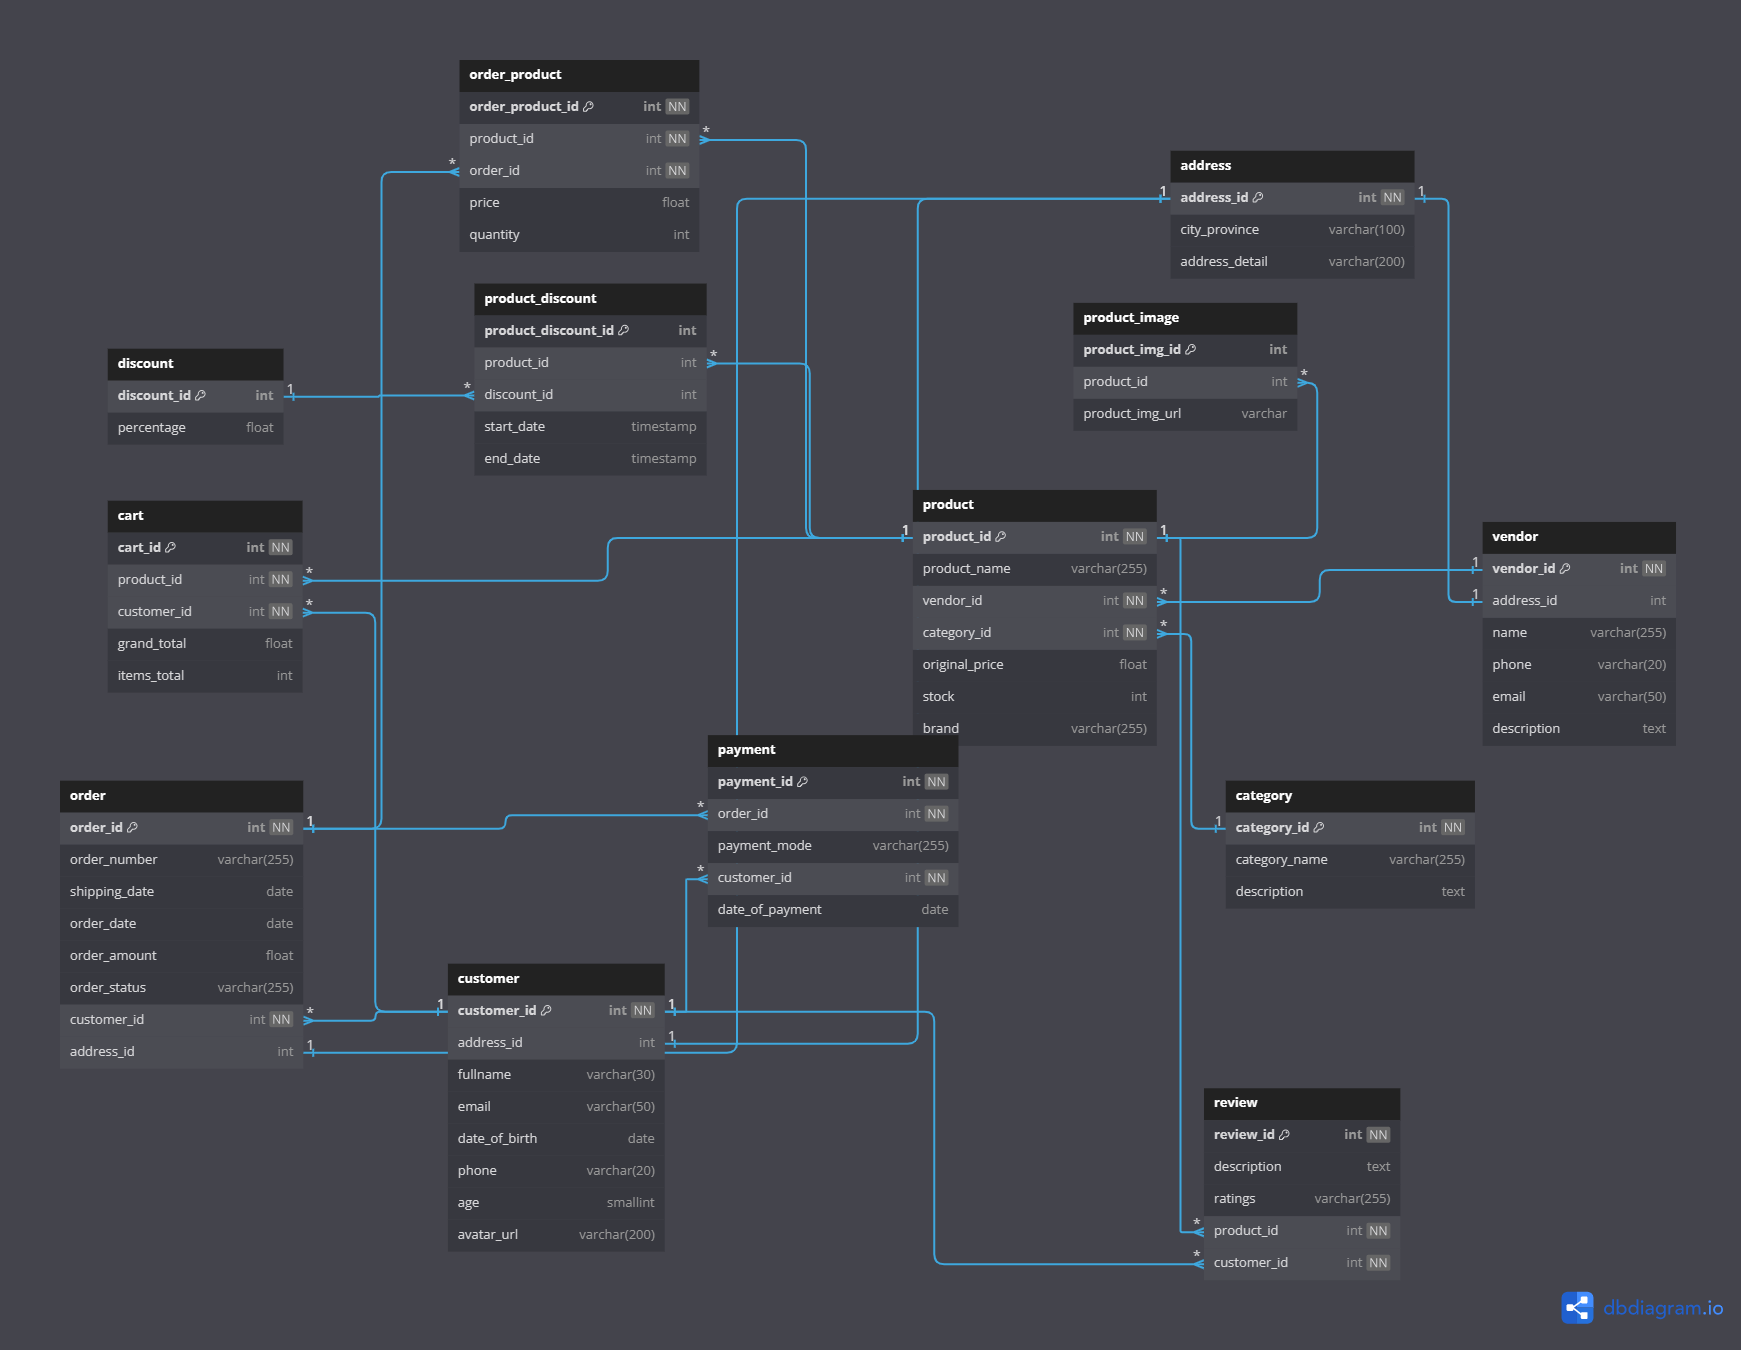
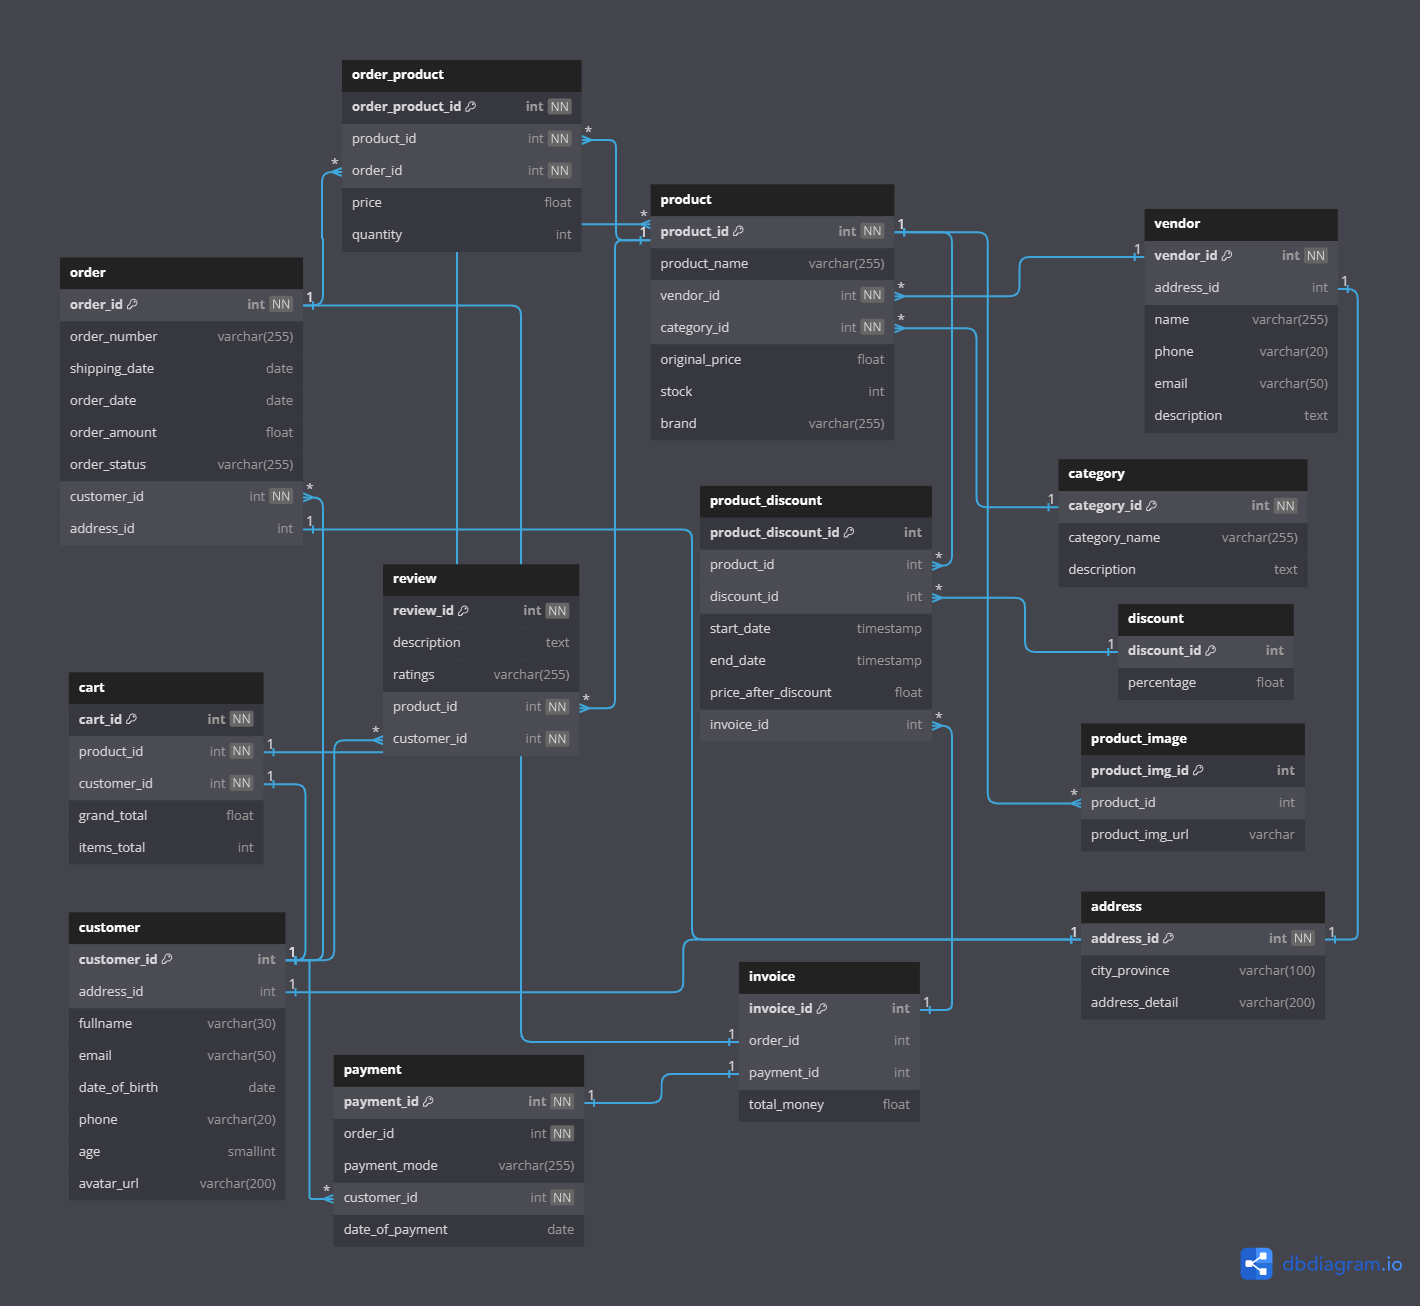
add invoice table

diff --git a/README.md b/README.md
@@ -5,5 +5,6 @@ Final Project for K16DS's Data Platform subject
 - Quách Xuân Nam: 20020541
 - Nguyễn Văn Hậu: 20001665
 - Lưu Lương Vi Nhân: 20104821
+- Nguyễn Văn Nam: 21017711
 # ERD (might change)
 ![ERD Design](schema/erd.png)
